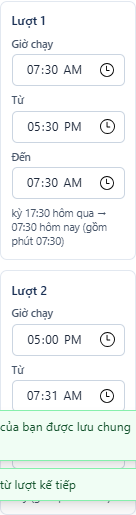
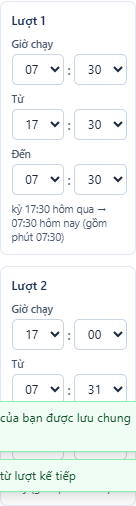
Settings › Thời gian: 24-hour hour/minute pickers (Time24) for the report window and the automatic times; shorter "Khung mở mặc định" label

diff --git a/web/src/Settings.tsx b/web/src/Settings.tsx
@@ -10,7 +10,7 @@ import { api, type GoldenSet, type HistoryEntry, type PreviewResult, type Profil
 import { alreadyApplied, applySuggestion, impactOf, type FilterSuggestion, type Judged } from '../../src/domain/suggest';
 import { RuleBuilder } from './RuleBuilder';
 import { SourcesPanel } from './SourcesPanel';
-import { ChipEditor, Field, NumberField, Section, Select, Toggle, useEscape, useToast } from './ui';
+import { ChipEditor, Field, NumberField, Section, Select, Time24, Toggle, useEscape, useToast } from './ui';
 
 const NAV = [
   ['profiles', 'Tổng quan'],
@@ -636,9 +636,15 @@ function TimePanel({ s, up }: { s: Settings; up: Up }) {
     <div>
       <Section title="Khung giờ báo cáo mặc định">
         <div className="grid gap-3 md:grid-cols-3">
-          <Field label="Giờ bắt đầu (hôm trước)"><input className="input" type="time" value={s.reportWindow.startClock} onChange={(e) => up('reportWindow', { startClock: e.target.value })} /></Field>
-          <Field label="Giờ kết thúc (ngày báo cáo)"><input className="input" type="time" value={s.reportWindow.endClock} onChange={(e) => up('reportWindow', { endClock: e.target.value })} /></Field>
-          <Select label="Khung mặc định khi chưa có lượt thu thập nào (có lượt rồi thì mở lượt gần nhất)" value={s.reportWindow.defaultPreset} onChange={(v) => up('reportWindow', { defaultPreset: v })} options={[['last_completed', 'Kỳ gần nhất (đã kết thúc)'], ['today', 'Hôm nay'], ['yesterday', 'Hôm qua'], ['custom', 'Tùy chỉnh đã lưu']]} />
+          <div>
+            <span className="label">Giờ bắt đầu (hôm trước)</span>
+            <Time24 label="Giờ bắt đầu (hôm trước)" value={s.reportWindow.startClock} onChange={(v) => up('reportWindow', { startClock: v })} />
+          </div>
+          <div>
+            <span className="label">Giờ kết thúc (ngày báo cáo)</span>
+            <Time24 label="Giờ kết thúc (ngày báo cáo)" value={s.reportWindow.endClock} onChange={(v) => up('reportWindow', { endClock: v })} />
+          </div>
+          <Select label="Khung mở mặc định" help="Dùng khi chưa có lượt thu thập nào; có lượt rồi thì mở lượt gần nhất." value={s.reportWindow.defaultPreset} onChange={(v) => up('reportWindow', { defaultPreset: v })} options={[['last_completed', 'Kỳ gần nhất (đã kết thúc)'], ['today', 'Hôm nay'], ['yesterday', 'Hôm qua'], ['custom', 'Tùy chỉnh đã lưu']]} />
         </div>
         <p className="rounded bg-teal-50 p-2 text-xs text-teal-900">{preview}</p>
         <NumberField label="Biên dò thêm quanh khung giờ" value={s.reportWindow.lookbackMarginHours} min={0} max={72} suffix="giờ" onChange={(n) => up('reportWindow', { lookbackMarginHours: n })} help="Bài có ngày RSS nằm ngoài khung ± biên này được ghi nhận Ngoài khung mà không tải. Bài trong biên vẫn được tải để xác minh giờ đăng thật." />
@@ -698,10 +704,10 @@ function ScheduleTimesSection() {
     setTimes({ ...times, [id]: k === 'at' && cur.to === cur.at ? { ...cur, at: v, to: v } : { ...cur, [k]: v } });
   };
   const timeField = (id: ScheduleSlotId, k: keyof T, label: string) => (
-    <label className="block min-w-0">
+    <div className="min-w-0">
       <span className="mb-1 block text-xs font-medium text-slate-600">{label}</span>
-      <input className="input w-full min-w-0 px-2 text-center" type="time" aria-label={`${SLOT_NAMES[id]} – ${label.toLowerCase()}`} value={times[id][k]} max={k === 'at' ? LATEST_RUN : undefined} onChange={(e) => set(id, k, e.target.value)} />
-    </label>
+      <Time24 label={`${SLOT_NAMES[id]} – ${label.toLowerCase()}`} value={times[id][k]} maxHour={k === 'at' ? Number(LATEST_RUN.slice(0, 2)) : 23} onChange={(v) => set(id, k, v)} />
+    </div>
   );
   return (
     <Section title="Giờ thu thập tự động" help="Máy chủ tự thu thập vào các giờ này cho cấu hình đang chọn (bật/tắt từng lượt bằng công tắc Tự động ở trang chính). Áp dụng cho cả nhóm.">
@@ -710,7 +716,7 @@ function ScheduleTimesSection() {
           <div key={d.id} className="min-w-0 rounded-lg border border-slate-200 bg-white p-3">
             <div className="mb-2 text-sm font-semibold text-navy-800">{SLOT_NAMES[d.id]}</div>
             {/* one row when there is room, one field per row on a phone */}
-            <div className="grid grid-cols-[repeat(auto-fit,minmax(7.5rem,1fr))] gap-2">
+            <div className="grid grid-cols-[repeat(auto-fit,minmax(8.5rem,1fr))] gap-2">
               {timeField(d.id, 'at', 'Giờ chạy')}
               {timeField(d.id, 'from', 'Từ')}
               {timeField(d.id, 'to', 'Đến')}

diff --git a/tests/ui-live/review.spec.ts b/tests/ui-live/review.spec.ts
@@ -115,24 +115,29 @@ test('automatic times are changed in Settings (not fixed at 08:00 / 16:30), show
   await strip.getByTestId('edit-times').click();
   const dlg = page.getByRole('dialog', { name: 'Cài đặt' });
   const box = dlg.getByTestId('schedule-times');
-  await expect(box.getByLabel('Lượt 1 – giờ chạy')).toHaveValue('08:00');
-  await box.getByLabel('Lượt 1 – giờ chạy').fill('07:30');
-  await expect(box.getByLabel('Lượt 1 – đến')).toHaveValue('07:30'); // "Đến" follows the run time
-  await box.getByLabel('Lượt 1 – từ').fill('17:30');
-  await box.getByLabel('Lượt 2 – giờ chạy').fill('17:00');
-  await box.getByLabel('Lượt 2 – từ').fill('07:31');
-  await box.getByLabel('Lượt 2 – đến').fill('16:45'); // changed by hand
+  // 24-hour hour / minute selects on every computer
+  const setT = async (l: string, v: string) => {
+    await box.getByLabel(`${l} – giờ`, { exact: true }).selectOption(v.slice(0, 2));
+    await box.getByLabel(`${l} – phút`, { exact: true }).selectOption(v.slice(3));
+  };
+  await expect(box.getByRole('group', { name: 'Lượt 1 – giờ chạy', exact: true })).toHaveAttribute('data-value', '08:00');
+  await setT('Lượt 1 – giờ chạy', '07:30');
+  await expect(box.getByRole('group', { name: 'Lượt 1 – đến', exact: true })).toHaveAttribute('data-value', '07:30'); // "Đến" follows the run time
+  await setT('Lượt 1 – từ', '17:30');
+  await setT('Lượt 2 – giờ chạy', '17:00');
+  await setT('Lượt 2 – từ', '07:31');
+  await setT('Lượt 2 – đến', '16:45'); // changed by hand
   await expect(box).toContainText('kỳ 17:30 hôm qua → 07:30 hôm nay');
   await expect(box).toContainText('kỳ 07:31 → 16:45 hôm nay (gồm phút 16:45)');
-  await box.getByLabel('Lượt 2 – đến').fill('17:30');
+  await setT('Lượt 2 – đến', '17:30');
   await expect(dlg.getByText(/"Đến" không được muộn hơn giờ chạy/)).toBeVisible();
-  await box.getByLabel('Lượt 2 – đến').fill('16:45');
+  await setT('Lượt 2 – đến', '16:45');
   // invalid: same run time → save disabled with the reason
-  await box.getByLabel('Lượt 1 – giờ chạy').fill('17:00'); // its "Đến" follows (still untouched)
+  await setT('Lượt 1 – giờ chạy', '17:00'); // its "Đến" follows (still untouched)
   await expect(dlg.getByText('Hai lượt không được trùng giờ chạy')).toBeVisible();
   await expect(dlg.getByRole('button', { name: 'Lưu giờ' })).toBeDisabled();
-  await box.getByLabel('Lượt 1 – giờ chạy').fill('07:30');
-  await expect(box.getByLabel('Lượt 1 – đến')).toHaveValue('07:30');
+  await setT('Lượt 1 – giờ chạy', '07:30');
+  await expect(box.getByRole('group', { name: 'Lượt 1 – đến', exact: true })).toHaveAttribute('data-value', '07:30');
   await dlg.getByRole('button', { name: 'Lưu giờ' }).click();
   await expect(page.getByText(/Đã lưu giờ thu thập tự động/)).toBeVisible();
   const st = await (await request.get('http://127.0.0.1:5181/status')).json();
@@ -140,7 +145,7 @@ test('automatic times are changed in Settings (not fixed at 08:00 / 16:30), show
   await page.screenshot({ path: 'docs/screenshots/web-schedule-times.png' });
   // phone: the three time fields fit inside each card
   await page.setViewportSize({ width: 390, height: 844 });
-  for (const b of await box.locator('input[type=time]').all()) {
+  for (const b of await box.locator('select').all()) {
     const r = (await b.boundingBox())!;
     const card = (await box.boundingBox())!;
     expect(r.x + r.width).toBeLessThanOrEqual(card.x + card.width + 1);

diff --git a/web/src/ui.tsx b/web/src/ui.tsx
@@ -109,6 +109,26 @@ export function NumberField({ label, value, onChange, min, max, step = 1, help, 
   );
 }
 
+const two = (n: number) => String(n).padStart(2, '0');
+/**
+ * HH:mm in 24-hour form on every computer (the browser's type=time follows the OS locale, e.g. 04:05 PM).
+ * Two selects: "<label> – giờ" and "<label> – phút"; the group carries data-value="HH:mm".
+ */
+export function Time24({ label, value, onChange, maxHour = 23 }: { label: string; value: string; onChange: (v: string) => void; maxHour?: number }) {
+  const [h = '00', m = '00'] = (value || '00:00').slice(0, 5).split(':');
+  return (
+    <div role="group" aria-label={label} data-value={`${h}:${m}`} className="flex items-center gap-1">
+      <select className="input w-[3.75rem] min-w-0 px-1.5 text-center tabular-nums" aria-label={`${label} – giờ`} value={h} onChange={(e) => onChange(`${e.target.value}:${m}`)}>
+        {Array.from({ length: maxHour + 1 }, (_, i) => <option key={i} value={two(i)}>{two(i)}</option>)}
+      </select>
+      <span className="font-semibold text-slate-500">:</span>
+      <select className="input w-[3.75rem] min-w-0 px-1.5 text-center tabular-nums" aria-label={`${label} – phút`} value={m} onChange={(e) => onChange(`${h}:${e.target.value}`)}>
+        {Array.from({ length: 60 }, (_, i) => <option key={i} value={two(i)}>{two(i)}</option>)}
+      </select>
+    </div>
+  );
+}
+
 export function Select<T extends string>({ label, value, onChange, options, help }: { label: string; value: T; onChange: (v: T) => void; options: Array<[T, string]>; help?: string }) {
   return (
     <Field label={label} help={help}>
